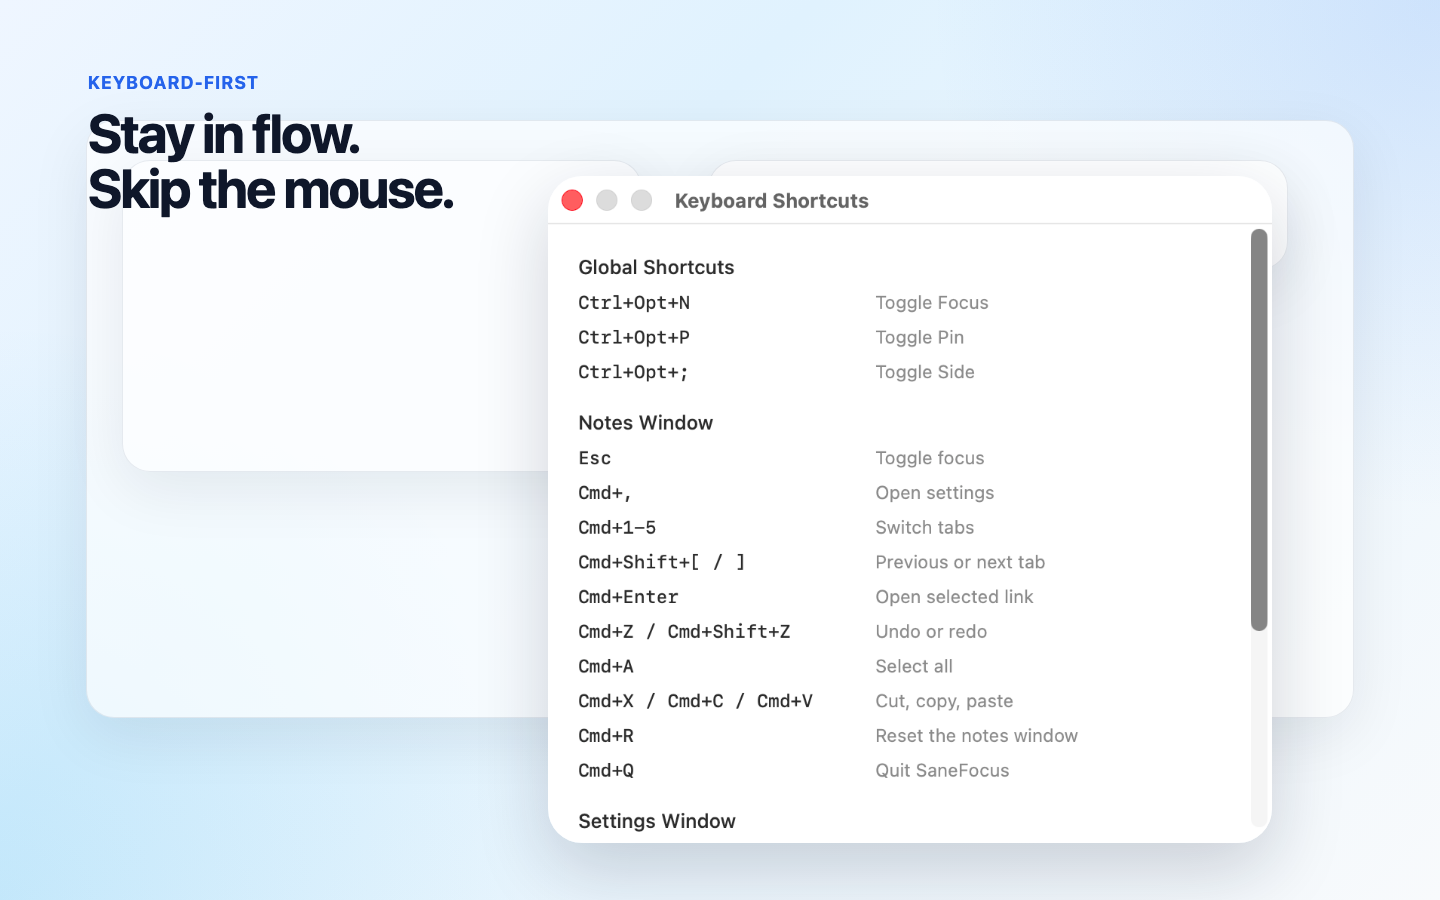
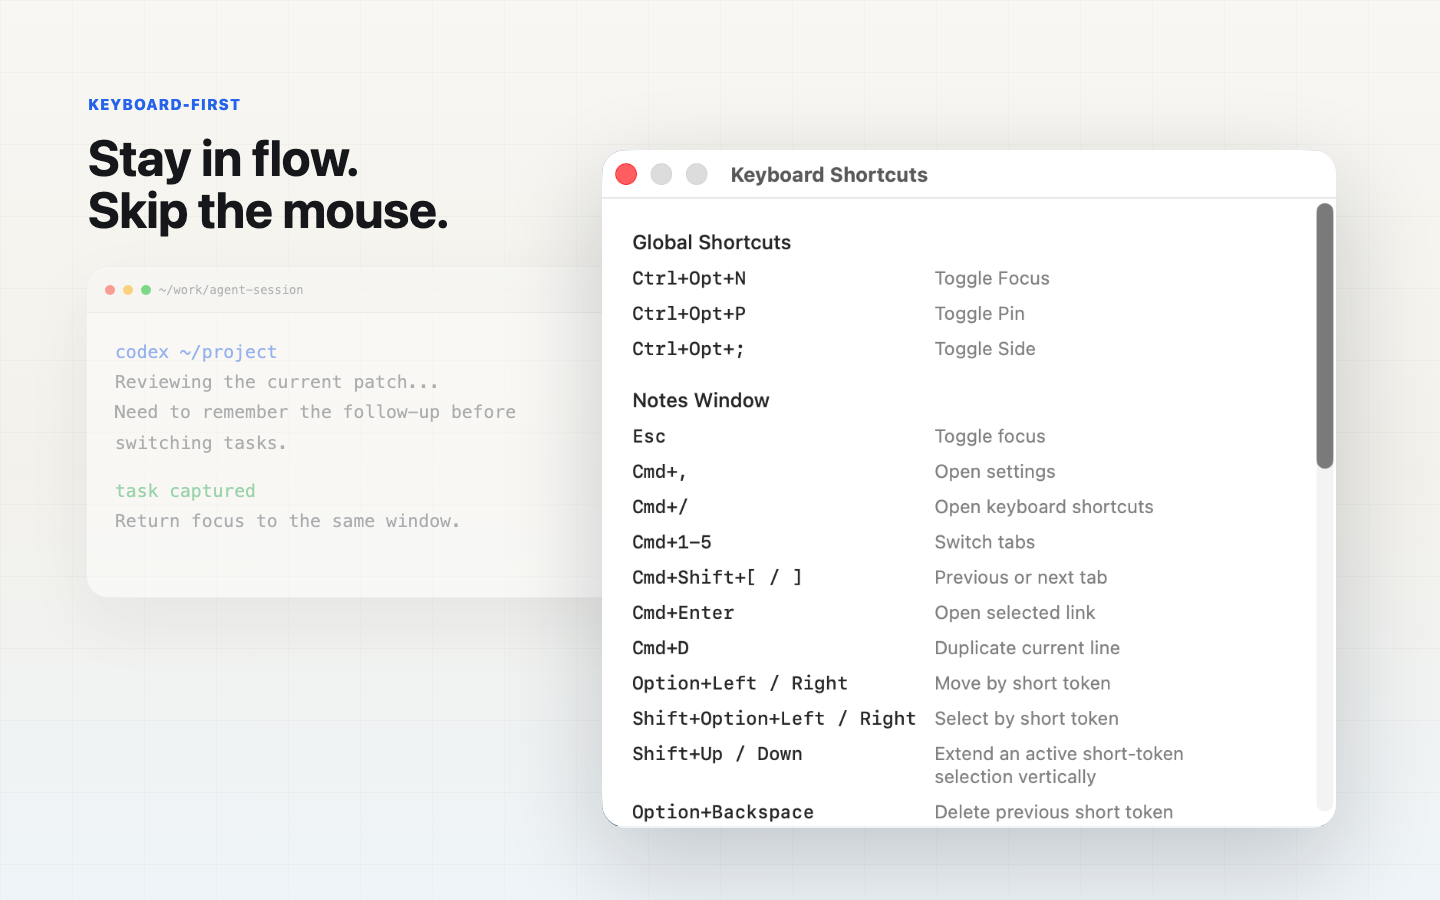
Add SaneFocus 1.1 website updates

diff --git a/sanefocus/updates/front-matter-archive/index.html b/sanefocus/updates/front-matter-archive/index.html
@@ -1,0 +1,127 @@
+<!doctype html>
+<html lang="en">
+  <head>
+    <meta charset="utf-8">
+    <meta name="viewport" content="width=device-width, initial-scale=1">
+    <title>Note metadata and archive files in SaneFocus - JP Forge Studio</title>
+    <meta name="description" content="Use SaneFocus note metadata to keep tab titles compact and move finished scratchpad items into a plain Markdown archive.">
+    <link rel="canonical" href="https://jpforgestudio.com/sanefocus/updates/front-matter-archive/">
+    <meta property="og:title" content="Note metadata and archive files in SaneFocus - JP Forge Studio">
+    <meta property="og:description" content="Use SaneFocus note metadata to keep tab titles compact and move finished scratchpad items into a plain Markdown archive.">
+    <meta property="og:type" content="article">
+    <meta property="og:url" content="https://jpforgestudio.com/sanefocus/updates/front-matter-archive/">
+    <meta property="og:image" content="https://jpforgestudio.com/assets/sanefocus/social-preview.png">
+    <meta property="og:site_name" content="JP Forge Studio">
+    <meta property="article:published_time" content="2026-05-19">
+    <meta property="article:modified_time" content="2026-05-19">
+    <meta property="article:author" content="JP Forge Studio">
+    <meta name="twitter:card" content="summary_large_image">
+    <meta name="twitter:title" content="Note metadata and archive files in SaneFocus - JP Forge Studio">
+    <meta name="twitter:description" content="Use SaneFocus note metadata to keep tab titles compact and move finished scratchpad items into a plain Markdown archive.">
+    <meta name="twitter:image" content="https://jpforgestudio.com/assets/sanefocus/social-preview.png">
+    <link rel="icon" href="/assets/icons/favicon.svg" type="image/svg+xml">
+    <link rel="stylesheet" href="/styles.css">
+    <script type="application/ld+json">
+      {
+        "@context": "https://schema.org",
+        "@type": "Article",
+        "headline": "Note metadata and archive files in SaneFocus",
+        "description": "Use SaneFocus note metadata to keep tab titles compact and move finished scratchpad items into a plain Markdown archive.",
+        "image": "https://jpforgestudio.com/assets/sanefocus/social-preview.png",
+        "datePublished": "2026-05-19",
+        "dateModified": "2026-05-19",
+        "mainEntityOfPage": "https://jpforgestudio.com/sanefocus/updates/front-matter-archive/",
+        "author": {
+          "@type": "Organization",
+          "name": "JP Forge Studio",
+          "url": "https://jpforgestudio.com/"
+        },
+        "publisher": {
+          "@type": "Organization",
+          "name": "JP Forge Studio",
+          "url": "https://jpforgestudio.com/"
+        }
+      }
+    </script>
+  </head>
+  <body>
+    <header class="shell nav">
+      <a class="brand" href="/">
+        <span class="brand-dot"></span>
+        JP Forge Studio
+      </a>
+      <nav class="nav-links" aria-label="Main navigation">
+        <a href="/sanefocus/">SaneFocus</a>
+        <a href="/sanefocus/support/">Support</a>
+        <a href="/sanefocus/privacy/">Privacy</a>
+      </nav>
+    </header>
+
+    <main class="shell doc article">
+      <p class="doc-eyebrow">From the workshop</p>
+      <h1>Note metadata and archive files in SaneFocus</h1>
+      <p class="article-meta">
+        Published <time datetime="2026-05-19">May 19, 2026</time> by JP Forge Studio.
+      </p>
+      <p class="doc-lede">
+        SaneFocus notes can now carry a tiny metadata block for the parts of a
+        scratchpad that should stay quiet: tab names and archive destinations.
+      </p>
+
+      <p>
+        A quick note often starts messy. The first visible line might be a task,
+        a pasted link, or a half-written thought. Metadata gives that note a
+        stable label without turning the note itself into a form.
+      </p>
+
+      <pre class="code-card"><code>---
+title: Inbox
+archive: ~/Notes/SaneFocus/archive.md
+---
+
+- [ ] Reply to the invoice email
+- [x] Check the build upload
+- [c] Cancel the old follow-up</code></pre>
+
+      <h2>Compact tab titles</h2>
+      <p>
+        Add a <code>title</code> field when the first line of the note is not
+        the label you want to see in the tab strip. The note stays plain
+        Markdown, while the tab stays short enough to scan at a glance.
+      </p>
+
+      <h2>Archive finished context</h2>
+      <p>
+        Add an <code>archive</code> path when you want the archive shortcut to
+        move text out of the active note. If text is selected,
+        <kbd>Control</kbd> <kbd>J</kbd> moves that selection. If nothing is
+        selected, completed and canceled checklist items are moved instead.
+      </p>
+      <p>
+        The archive file is plain Markdown, so it remains easy to search, back
+        up, or open in another editor later.
+      </p>
+
+      <h2>Why this stays small</h2>
+      <p>
+        This is not meant to turn SaneFocus into a project manager. It is a
+        pressure valve for scratch notes: keep the current note light, preserve
+        finished context somewhere simple, and get back to work.
+      </p>
+
+      <p class="article-back">
+        <a href="/sanefocus/updates/">Back to all workshop notes</a>
+      </p>
+    </main>
+
+    <footer class="footer">
+      <div class="shell footer-inner">
+        <span>© 2026 JP Forge Studio</span>
+        <div class="footer-links">
+          <a href="/sanefocus/support/">Support</a>
+          <a href="/sanefocus/privacy/">Privacy</a>
+        </div>
+      </div>
+    </footer>
+  </body>
+</html>

diff --git a/sanefocus/updates/task-shortcuts/index.html b/sanefocus/updates/task-shortcuts/index.html
@@ -13,7 +13,7 @@
     <meta property="og:image" content="https://jpforgestudio.com/assets/sanefocus/social-preview.png">
     <meta property="og:site_name" content="JP Forge Studio">
     <meta property="article:published_time" content="2026-05-17">
-    <meta property="article:modified_time" content="2026-05-18">
+    <meta property="article:modified_time" content="2026-05-19">
     <meta property="article:author" content="JP Forge Studio">
     <meta name="twitter:card" content="summary_large_image">
     <meta name="twitter:title" content="Keyboard-first task notes in SaneFocus - JP Forge Studio">
@@ -29,7 +29,7 @@
         "description": "Use SaneFocus checklist shortcuts to move small tasks through done, canceled, in progress, pending, and waiting states without leaving the keyboard.",
         "image": "https://jpforgestudio.com/assets/sanefocus/social-preview.png",
         "datePublished": "2026-05-17",
-        "dateModified": "2026-05-18",
+        "dateModified": "2026-05-19",
         "mainEntityOfPage": "https://jpforgestudio.com/sanefocus/updates/task-shortcuts/",
         "author": {
           "@type": "Organization",
@@ -62,7 +62,7 @@
       <h1>Keyboard-first task notes in SaneFocus</h1>
       <p class="article-meta">
         Published <time datetime="2026-05-17">May 17, 2026</time> by JP Forge Studio.
-        Updated <time datetime="2026-05-18">May 18, 2026</time>.
+        Updated <time datetime="2026-05-19">May 19, 2026</time>.
       </p>
       <p class="doc-lede">
         SaneFocus is not a project manager. But scratch notes often turn into
@@ -127,6 +127,12 @@
         keeps showing the things that still need attention. The goal is not
         perfect organization. It is less friction between having a thought and
         getting back to work.
+      </p>
+      <p>
+        Press <kbd>Control</kbd> <kbd>J</kbd> to move done and canceled items
+        down. If the note has an archive destination in its metadata, the same
+        shortcut can move selected text or finished items into that Markdown
+        archive instead.
       </p>
 
       <p class="article-back">

diff --git a/sanefocus/index.html b/sanefocus/index.html
@@ -87,7 +87,7 @@
         <article class="feature">
           <div class="feature-mark"></div>
           <h3>Five quiet tabs</h3>
-          <p>Keep separate thought streams in five compact tabs. Titles update from what you write, so context stays recognizable without extra setup.</p>
+          <p>Keep separate thought streams in five compact tabs. Titles update from what you write, or from note metadata when you want a tidier label.</p>
         </article>
         <article class="feature">
           <div class="feature-mark"></div>
@@ -141,6 +141,15 @@
             leaving the keyboard.
           </p>
           <span class="text-link">Learn the shortcuts</span>
+        </a>
+        <a class="workshop-card" href="/sanefocus/updates/front-matter-archive/">
+          <span class="workshop-kicker">Workflow note</span>
+          <h3>Note metadata and archive files</h3>
+          <p>
+            Keep tab titles compact and move finished scratchpad context into a
+            plain Markdown archive.
+          </p>
+          <span class="text-link">Read the update</span>
         </a>
       </div>
       <p class="article-back">

diff --git a/sanefocus/updates/index.html b/sanefocus/updates/index.html
@@ -41,6 +41,11 @@
       </p>
 
       <div class="update-list">
+        <a class="update-row" href="/sanefocus/updates/front-matter-archive/">
+          <span>Workflow note</span>
+          <strong>Note metadata and archive files</strong>
+          <p>Keep tab titles compact and move finished context into a plain Markdown archive.</p>
+        </a>
         <a class="update-row" href="/sanefocus/updates/task-shortcuts/">
           <span>Workflow note</span>
           <strong>Keyboard-first task notes</strong>

diff --git a/styles.css b/styles.css
@@ -307,7 +307,7 @@ h3 {
 
 .workshop-grid {
   display: grid;
-  grid-template-columns: 1.12fr 0.88fr;
+  grid-template-columns: repeat(3, minmax(0, 1fr));
   gap: 18px;
 }
 